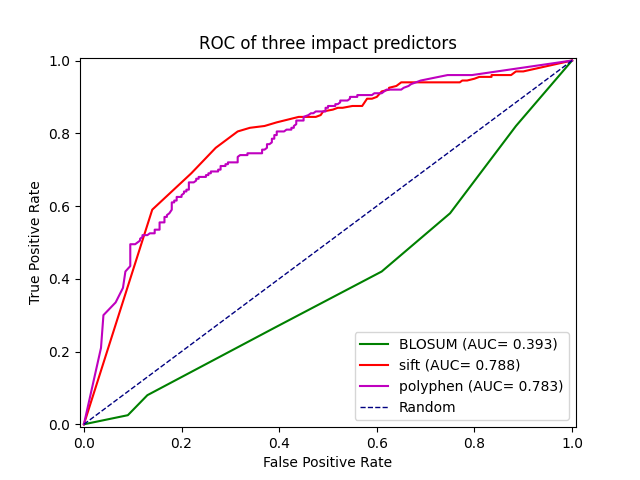
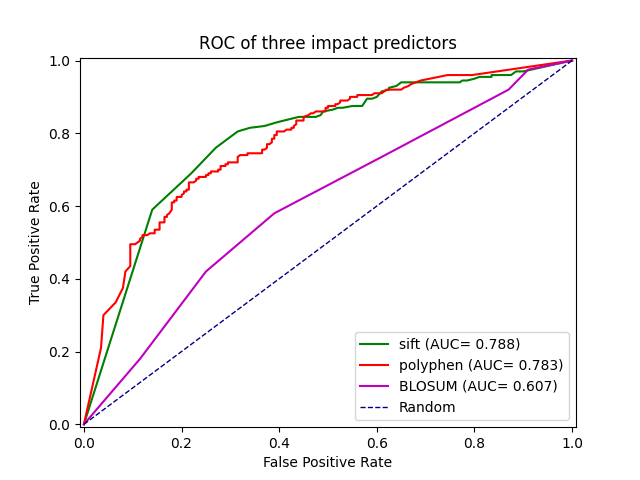
minor changes to roc plots

diff --git a/skeleton_script_create_roc_plot.py b/skeleton_script_create_roc_plot.py
@@ -264,6 +264,7 @@ def integrate(fpr, tpr):
         #########################
         # Calculate AUC
         auc += (cur_fpr - last_fpr) * (cur_tpr + last_tpr) / 2
+        # auc += (cur_fpr - last_fpr) * (last_tpr + (cur_tpr - last_tpr) / 2)
 
         #########################
         ###  END CODING HERE  ###
@@ -295,9 +296,21 @@ def roc_plot(tpr, fpr, coordinator_score, out_filepath, color = False):
         color_bar = figure.colorbar(lc)
         colorbar_legend = type_predictor + ' score'
         color_bar.ax.set_ylabel(colorbar_legend)
+        if type_predictor == 'polyphen':
+            # find first index of coordinate_score where score is lower than 0.85
+            index = next(x for x, val in enumerate(coordinator_score) if val < 0.85)
+        elif type_predictor == 'sift':
+            # find first index of coordinate_score where score is higher than 0.05
+            index = next(x for x, val in enumerate(coordinator_score) if val > 0.05)
+        if type_predictor != 'BLOSUM':
+            # place an arrow to indicate the threshold score
+            axes.annotate('Default threshold', xy=(fpr[index], tpr[index]), xytext=(fpr[index] - 0.2, tpr[index] + 0.1),
+                          arrowprops=dict(facecolor='black', shrink=0.05))
+            
+            
     else:
         axes.plot(fpr, tpr)
-
+    
     axes.plot((0, 1), (0, 1), '--', color='navy', lw=lw, linestyle='--', label='Random')
     axes.set_xlim([-0.008, 1.008])
     axes.set_ylim([-0.008, 1.008])
